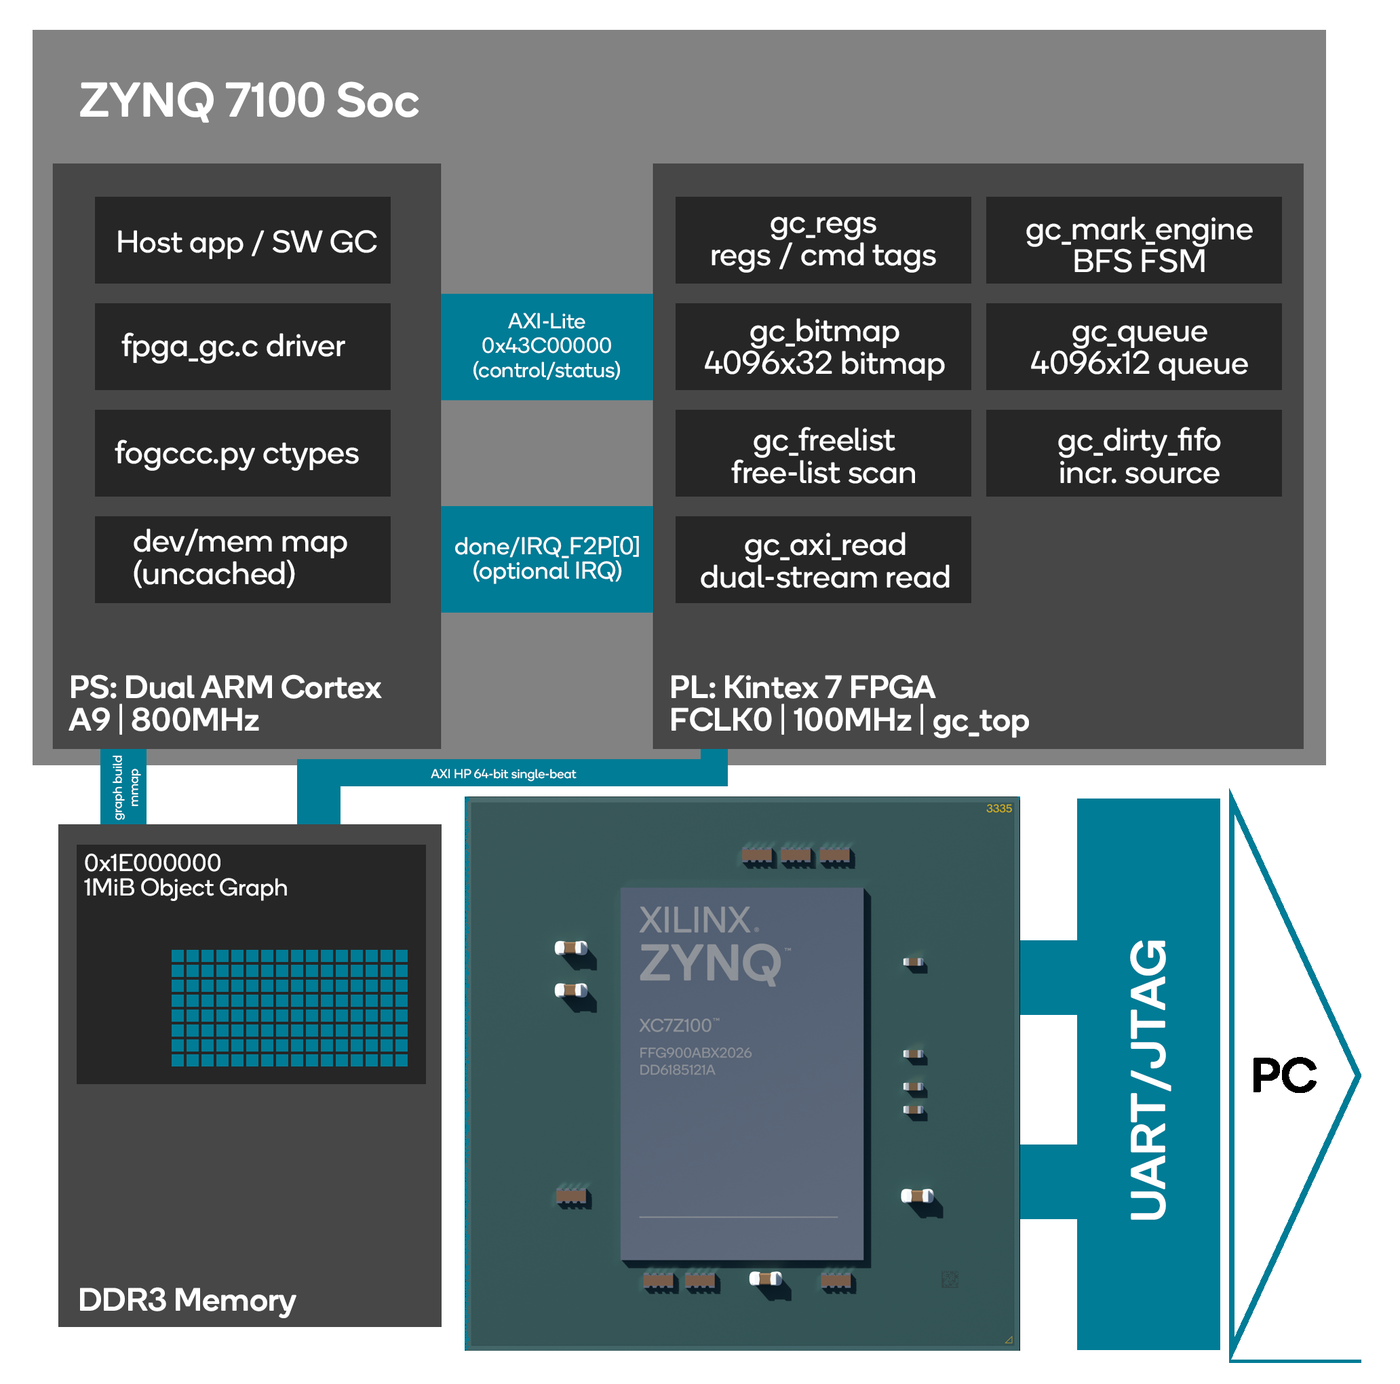
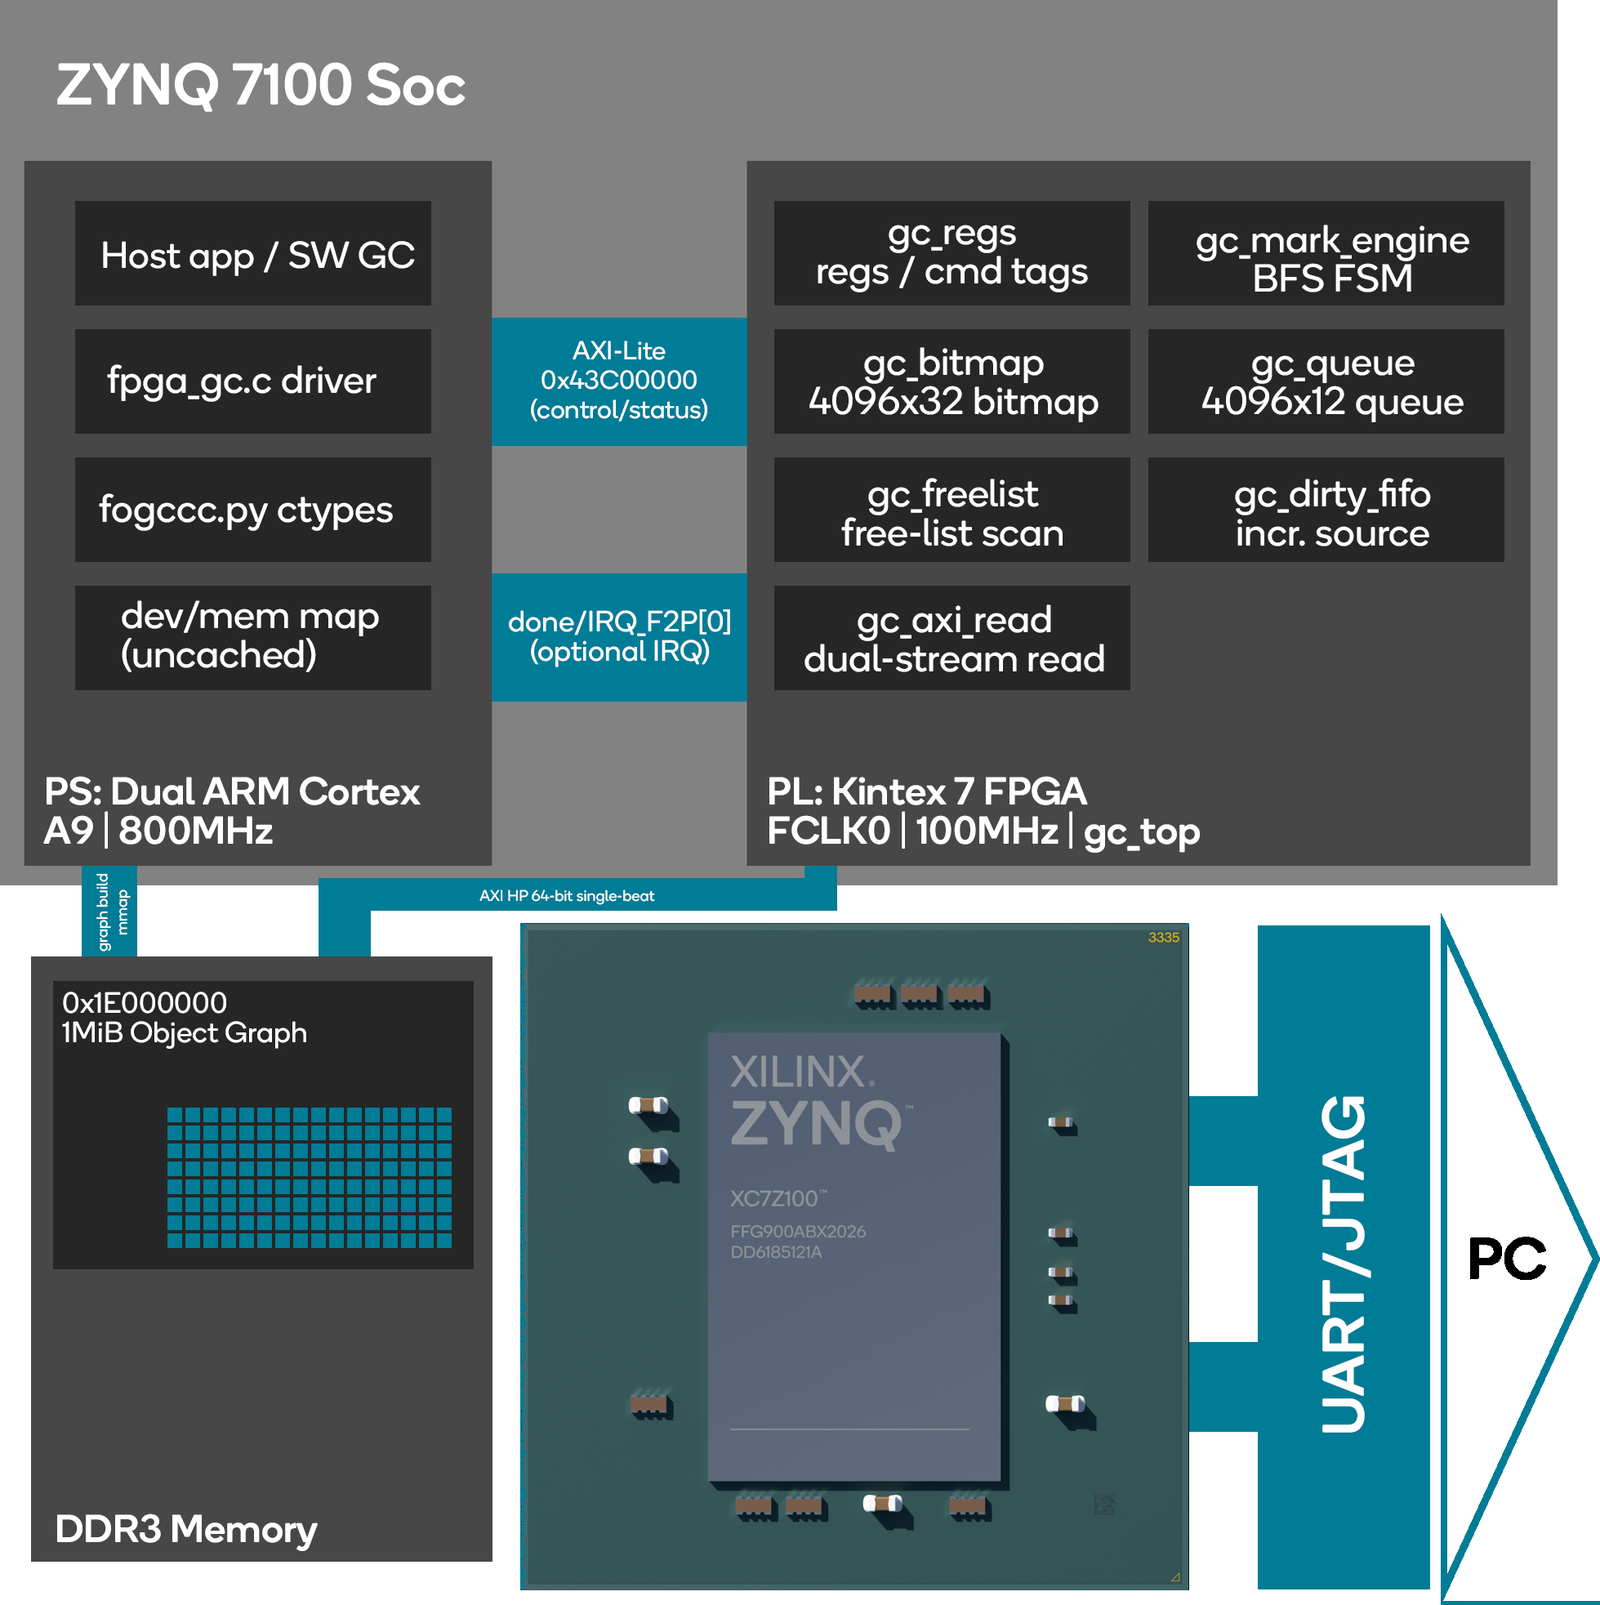
docs(readme): place the system diagram beside the component list
verified: python -m unittest discover -s tests -p "test_*.py" -> 61 tests OK
coverage: not measured
unverified: GitHub rendering of the two-column block was not checked live

diff --git a/README.md b/README.md
@@ -18,17 +18,23 @@
   <sub>语义解耦旁表 · 多流乱序访存协处理器 · 扁平化数据流标记引擎</sub>
 </p>
 
-| 构件 | 作用 |
-|---|---|
-| 语义解耦旁表 | 对象体留在 DDR，引用关系整理为连续旁表，标记只读旁表 |
-| 多流乱序访存协处理器 | 两条 AXI HP 读流并发预取对象头与引用，合计 8 笔未完成读 |
-| 扁平化数据流标记引擎 | 根集、广度优先队列与脏引用汇入同一条取数—判位—入队流水 |
-
-系统由 PS 侧软件与 PL 侧标记引擎组成，数据通路如下。
-
-<p align="center"><img src="docs/images/block.png" width="760" alt="FOGCCC 系统架构"></p>
-
-标记与空闲扫描由 PL 完成，建图、启动与回收决策由 PS 负责；对象数上限 4096、图区上限 1 MiB，当前未接入语言运行时，回收采用全局暂停方式。当前发布 v4.14（2026-11-04，位流 md5 6D479244…）。
+<table>
+<tr>
+<td valign="top" width="38%">
+<p><b>系统构成</b></p>
+<ul>
+<li><b>语义解耦旁表</b>：对象体留在 DDR，引用关系整理为连续旁表，标记只读旁表。</li>
+<li><b>多流乱序访存协处理器</b>：两条 AXI HP 读流并发预取对象头与引用，合计 8 笔未完成读。</li>
+<li><b>扁平化数据流标记引擎</b>：根集、广度优先队列与脏引用汇入同一条取数—判位—入队流水。</li>
+</ul>
+<p>标记与空闲扫描由 PL 完成，建图、启动与回收决策由 PS 负责。</p>
+<p>对象数上限 4096、图区上限 1 MiB，当前未接入语言运行时，回收采用全局暂停方式。当前发布 v4.14（2026-11-04，位流 md5 6D479244…）。</p>
+</td>
+<td valign="top" width="62%">
+<a href="docs/images/block.png"><img src="docs/images/block.png" width="520" alt="FOGCCC 系统架构"></a>
+</td>
+</tr>
+</table>
 
 | 文档 | 内容 |
 | --- | --- |
